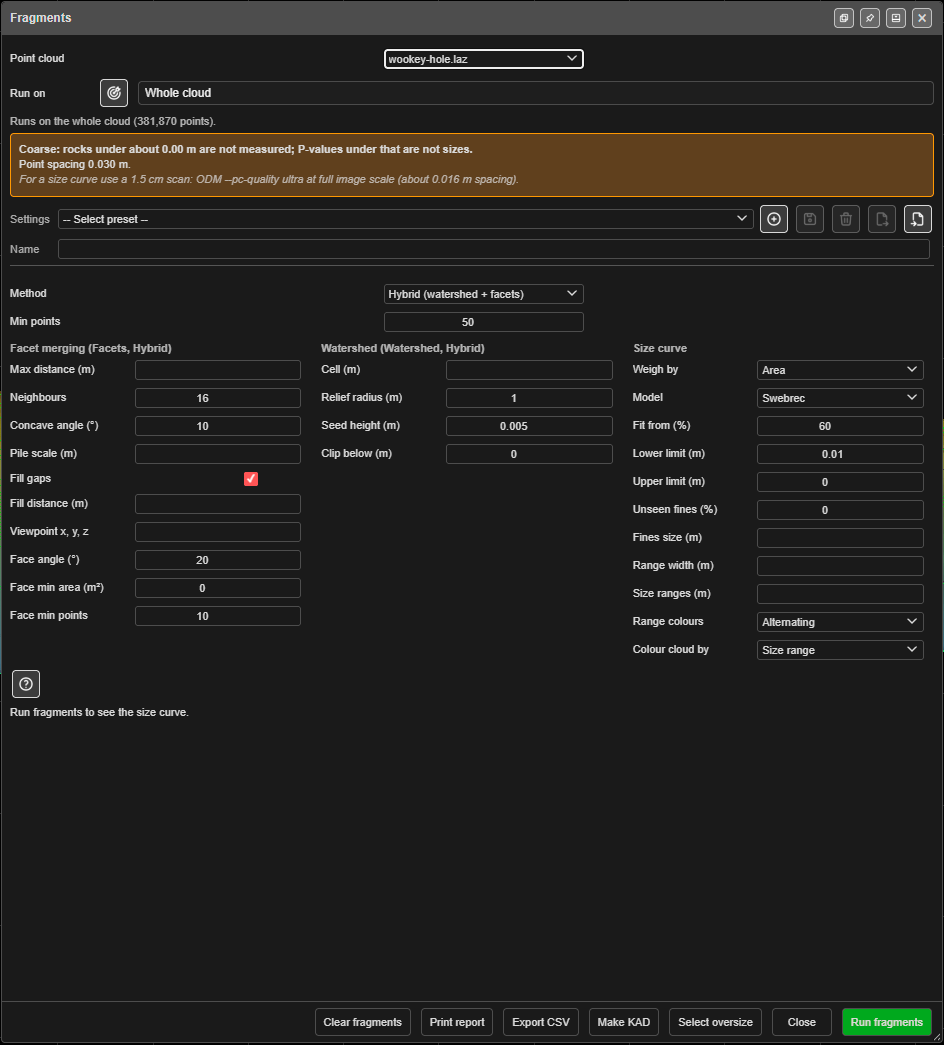
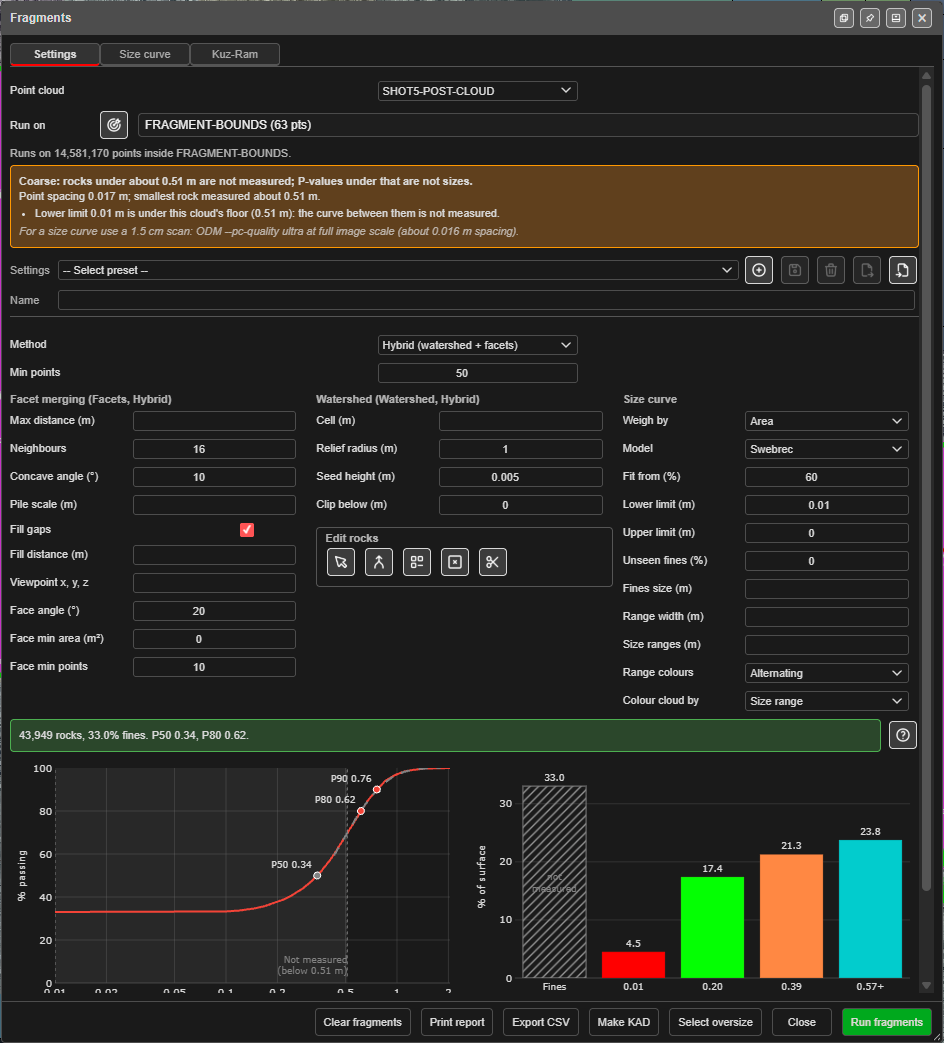
Docs: Fragments - three tabs, Edit rocks, Size curve, Kuz-Ram and the Fragmentation Report (Kirra 1.1.36.67)
- Settings tab after a default run on a KAD polygon (14.6 M points, 43,949
  rocks), Run on lists polygons by name, the scan-density floor note.
- Edit rocks: Pick rocks, Make rock, Make fines, Remove from analysis, Split.
- Size curve tab: Not measured floor, P markers, red P-values, hatched fines.
- Kuz-Ram tab: blast, rock factor, density, model and timing fields.
- Print a Fragmentation Report: prompt, the pages, rendered from the PDF.
- Index: Reports line linking the Fragmentation and Facet reports.

diff --git a/surfaces/fragments.md b/surfaces/fragments.md
@@ -10,9 +10,14 @@ rock size, can be drawn as KAD outlines, and can be exported as CSV or printed a
 Use it on a drone or ground scan of a muckpile, a face or a drawpoint to see how well the blast
 broke the rock, without sieving.
 
-![The Fragments dialog before a run: Hybrid method, the facet-merging, watershed and size-curve settings, and the buttons along the footer](../screenshots/FragmentsDialog.png)
+![The Fragments dialog after a run on a drone scan of a muckpile: Run on a KAD polygon, the scan-density note, the default settings, the result line, the size curve and the size-range bars](../screenshots/FragmentsDialog.png)
 
-*The Fragments dialog before a run.*
+*The **Settings** tab after a run with the default settings, on the 14.6 million points of a drone
+scan inside a KAD polygon: 43,949 rocks, 33 % fines, P50 0.34 m, P80 0.62 m.*
+
+The dialog has three tabs: **Settings** (the run and the size curve), **Size curve** (the curve at
+full size with its P-values) and **Kuz-Ram** (a Kuz-Ram prediction from the blast, to compare with
+the measured curve).
 
 ---
 
@@ -37,11 +42,15 @@ The dialog can be docked or opened in a window of its own, with the buttons in i
 1. **Choose the area in Run on.** The choices are:
     - **Selected points**: select part of the cloud first (**Select by Polygon** or **Rectangle**,
       in Vertices mode). See [Selecting points](point-clouds.md#selecting-points).
-    - **A KAD polygon**: its points become the selection. Use the pick button beside the list to
-      pick a closed KAD polygon on the canvas.
+    - **A KAD polygon**: the list names each closed polygon with its point count, for example
+      **FRAGMENT-BOUNDS (63 pts)**. Or click the pick button beside the list and click the polygon
+      on the canvas. The line under the list says how many points it holds, for example *"Runs on
+      14,581,170 points inside FRAGMENT-BOUNDS."*
     - **Whole cloud**: every point. This is slow on a big scan.
 2. **Choose a Method** (below). Leave the other settings at their defaults for the first run.
-3. Look at the scan-density banner above **Settings**. Before you run, it says the point spacing and how coarse the scan is, for example *"Coarse: rocks under about … m are not measured"*. Then click **Run fragments**. A progress dialog shows if the run takes more than a moment, with
+3. Look at the scan-density banner above **Settings**. It says the point spacing and how coarse the
+   scan is, for example *"Coarse: rocks under about 0.51 m are not measured; P-values under that are
+   not sizes."*, and warns when the **Lower limit** is under that floor. Then click **Run fragments**. A progress dialog shows if the run takes more than a moment, with
    elapsed time and **Cancel**. The run uses every core of your computer.
 4. Read the banner and the **Size curve**. A good run says how many rocks it found, the fines share
    and the P50 and P80, for example *"1,240 rocks, 18% fines. P50 0.42, P80 0.91."*
@@ -99,6 +108,25 @@ step then finds no rocks and most of the surface reads as fines.
 | **Seed height (m)** (0.005) | A relief peak standing this far proud seeds a rock. Larger gives fewer seeds and fewer rocks. |
 | **Clip below (m)** (0) | Cells this far under the mean surface are gaps between rocks. Without the clip every rock takes its fines and reads about 30 % large. |
 
+### Edit rocks
+
+After a run, the five **Edit rocks** buttons correct the result by hand. Every edit is one Undo
+step, and the rocks it touches are measured again.
+
+| Button | What it does |
+|---|---|
+| **Pick rocks** | A mode: while it is on, click a rock to select all of it. Shift-click adds a rock, Ctrl-click removes one. Click the button again, or press Escape, to stop. |
+| **Make rock** | The selected points become one rock. |
+| **Make fines** | The selected points become fines. |
+| **Remove from analysis** | The selected points count as neither rock nor fines: a truck, a bench face. |
+| **Split** | Click a line across a rock, double-click to end it, then tick the rocks to cut in **Split rocks**. |
+
+Select the points first for **Make rock**, **Make fines** and **Remove from analysis**: turn on
+**Select KAD Vertices** (V), then use **Select by Polygon**, **Rectangle**, **Ellipse** or **Select
+Points**, or use **Pick rocks**. A rock left under **Min points** after an edit becomes fines.
+
+### Presets
+
 The **Settings** list holds saved presets. To save one, type a **Name** and press **+**
 (*Save current settings as a new preset*). The icon buttons beside the list then update the
 selected preset from the current settings, delete it, export the presets to a JSON file, or import
@@ -114,7 +142,7 @@ the P-value table and the colours.
 | Field | What it does |
 |---|---|
 | **Weigh by** | **Area** (the default), **Volume** or **Count**. Volume lets a few big rocks carry the curve. |
-| **Model** | **Swebrec** is the model in the list. The curve fitted to the coarse, reliable part and extended to the fines, after Segarra et al. (2024). It changes the fit, not the measured P-values. |
+| **Model** | **Swebrec** (the default) or **Rosin–Rammler**. The curve fitted to the coarse, reliable part and extended to the fines, after Segarra et al. (2024). It changes the fit, not the measured P-values. |
 | **Fit from (%)** (60) | The fit uses the measured curve from this % passing up. Lower fits more of the curve. |
 | **Lower limit (m)** (0.01) | Rocks under this are fines. Blank or 0 is no limit. Use your site's fines size, for example 0.115 for 115 mm. |
 | **Upper limit (m)** | Everything larger is one **Over** share, for example the crusher gap. 0 is none. |
@@ -125,14 +153,54 @@ the P-value table and the colours.
 | **Range colours** | The colours of the size ranges on the cloud, the bars and the legend. **Alternating** gives every range its own colour; the others are Kirra's colour ramps. |
 | **Colour cloud by** | **Size range**, **Fragment** (each rock its own colour) or **Leave as is**. |
 
+### The Size curve tab
+
+![The Size curve tab: the measured curve and the Swebrec fit on a log scale, P50, P80 and P90 marked, the shaded Not measured region below 0.51 m, and the P-value table with values under the floor in red](../screenshots/FragmentsSizeCurveTab.png)
+
+*The curve at full size. The shaded region on the left is under the scan's floor, so it is not
+measured; P50 sits inside it here and shows in red.*
+
+The **Size curve** tab shows the measured curve and the fitted model on a log scale, with P50, P80
+and P90 marked with their sizes. Below the scan's smallest measured rock the chart is shaded **Not
+measured**. On the **Settings** tab the size-range bars sit beside the curve with each bar's value on
+top. The **Fines** bar is hatched: fines are the area left over after the rocks are found, not rocks
+measured one by one.
+
 In the P-value table, *fines* means under the **Lower limit**, *over* means above the **Upper limit**
 and a star (*) means extrapolated from the fitted curve. The table's note reads *"* extrapolated from
-the fit; fines = under the lower limit; over = over the upper limit."*
+the fit; fines = under the lower limit; over = over the upper limit."* A value in **red** is under the
+smallest rock the scan measures, so it is not a measured size.
 
 The density line under the settings says the point spacing and the smallest rock that can be measured,
 for example *"Point spacing 0.015 m; smallest rock measured about 0.45 m."* A coarser scan sees only
 bigger rocks. Click the **?** button (*"Reading the result"*) for the guide to fines, Max distance, Lower
 limit and scan density.
+
+---
+
+## Kuz-Ram
+
+The **Kuz-Ram** tab predicts the size curve from the blast design, so you can set the prediction
+beside what the scan measured.
+
+![The Kuz-Ram tab before a result: the blast, the rock factor fields, and the model and timing settings](../screenshots/FragmentsKuzRamTab.png)
+
+*The Kuz-Ram tab before a result: it asks for the rock factor A first.*
+
+| Field | What it does |
+|---|---|
+| **Blast** | The blast the muckpile came from. Auto takes the blast with the most collars in the run's area; the list shows how many of each blast's holes are inside. |
+| **Rock factor** | **Known A**: type Cunningham's rock factor **A** (0.8 to 22: about 7 for medium rock, 10 to 13 for hard, blocky rock). **From observations**: work A out from **Rock mass**, **Joint spacing**, **Joint condition**, **Joints to the face**, the density, and the rock's stiffness or strength. |
+| **Density from** | A density column of a loaded block model, sampled at each hole's charge, or **None: the SG below**. |
+| **Calibration C(A)** / **C(n)** | Scale the prediction to match site results. 1 is none. |
+| **Model** | **Cunningham 2005 (timing)**, which adds the in-row delay and its scatter, or **Cunningham 1987**. |
+| **Drilling deviation (m)**, **Rock P-wave velocity (km/s)**, **Delay scatter (ms)**, **Fallback RWS (% ANFO)** | The blast inputs the model needs beyond the holes and their charging. |
+
+The prediction is worked out from the blast's holes and their charging; each hole's rock volume is
+its burden × spacing × bench. When there is a result, the report gains a Kuz-Ram page.
+
+The orientation of a joint set from [Facets and Joint Sets](facets-joint-sets.md) helps choose
+**Joints to the face**.
 
 ---
 
@@ -144,12 +212,38 @@ limit and scan density.
 | **Select oversize** | Selects the points of the rocks over the **Upper limit**. Needs an Upper limit and a run first. |
 | **Make KAD** | Draws every rock's outline as a KAD polygon, **a layer per size range**. Flat sheets are not drawn. Kirra asks first if there are many. |
 | **Export CSV** | Saves two files: `<cloud name>_fragments.csv` (the rocks) and `<cloud name>_size_curve.csv` (the curve). |
-| **Print report** | Builds a two-page A4 fragmentation report and opens it in the PDF preview, where you save it. Page 1: the cloud, method and date, the scan-density notes, a plan picture of the fragments and the size-range legend. Page 2: the size curve, the size-range bars, the P-values, the fit, and any settings you changed from the defaults. |
+| **Print report** | Prints a [Fragmentation Report](#print-a-fragmentation-report) PDF of this run. |
 | **Clear fragments** | Removes the run's results and colours from the cloud. |
 | **Close** | Closes the dialog. The curve settings are saved with the cloud. |
 
 If the cloud's points change after a run (a delete, a crop), Kirra warns *"The cloud has changed since
 these fragments were found. Run again to update them."*
+
+---
+
+## Print a Fragmentation Report
+
+1. Run fragments.
+2. Click **Print report**.
+3. In **Print Fragmentation Report**, type a **Report title** (a blast, a muckpile, a bench) and an
+   **Author**. A blank title uses the blast or cloud name; a blank author leaves the line out. Click
+   **Print**.
+4. Kirra shows the report in a preview with its file name and size. Click **Save PDF**, or
+   **Discard**.
+
+![The Print Fragmentation Report prompt, with a report title and an author](../screenshots/FragmentReportPrompt.png)
+
+| Page | What is on it |
+|---|---|
+| **1** | The title, date, Kirra version and author; the cloud, its points, the area, the method and the point spacing; five summary cards (**P50**, **P80**, **P90**, **Rocks** and the fit); the scan-density note; and a plan of the cloud coloured by size range inside the area, in the scan's own colours outside it, with a north arrow, a scale bar and the size-range legend |
+| **2** | The size curve, the size-range bars (fines hatched), the P-values with those under the scan floor in red, the run's numbers, the method and its reference, and a disclaimer |
+| **3** | Only when the **Kuz-Ram** tab has a result: the Kuz-Ram prediction beside the measured curve |
+
+| Page 1 | Page 2 |
+|---|---|
+| ![Fragmentation Report page 1: the header, five summary cards, the scan-density note and a plan of the muckpile coloured by size range](../screenshots/FragmentReportPage1.png) | ![Fragmentation Report page 2: the size curve, the size-range bars, the P-values, the run's numbers, the method and the disclaimer](../screenshots/FragmentReportPage2.png) |
+
+*The two-page report from the run above. A card in red, like P50 here, is under the scan's floor.*
 
 ---
 

diff --git a/index.md b/index.md
@@ -127,6 +127,7 @@ Welcome to the official documentation for **Kirra**, a web-based blasting patter
 ### Printing
 - [Print from Template (XLSX)](printing/xlsx-templates.md) — the PDF Print dialog, Kirra Inbuilt and your own templates
 - [Print Formula Reference](printing/pdf-print.md) — cells, aggregation, maps, legends
+- Reports from the point-cloud tools: [Fragmentation Report](surfaces/fragments.md#print-a-fragmentation-report) · [Facet Report](surfaces/facets-joint-sets.md#print-a-facet-report) — A4 PDFs printed from the Fragments and Facets dialogs
 - [Template Examples](printing/template-examples.md) — worked XLSX templates for advanced print formulas
 - [Example Template Downloads](printing/examples/README.md) — the downloadable XLSX example files
 - [Claude Print Template Skill — Install & Use](printing/print-skill.md) — optional AI helper for building templates; [download](printing/KirraDesign-USER-Print-Skill.zip)
